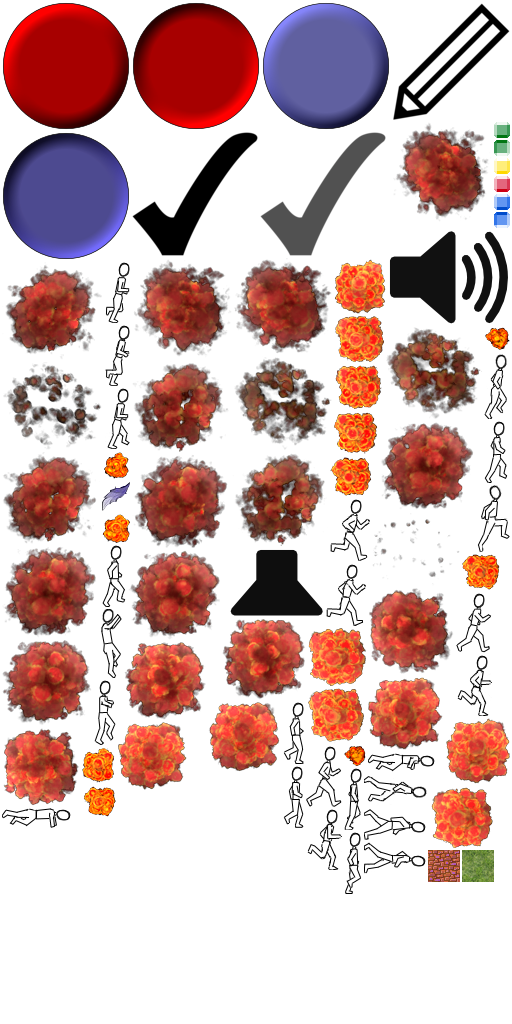
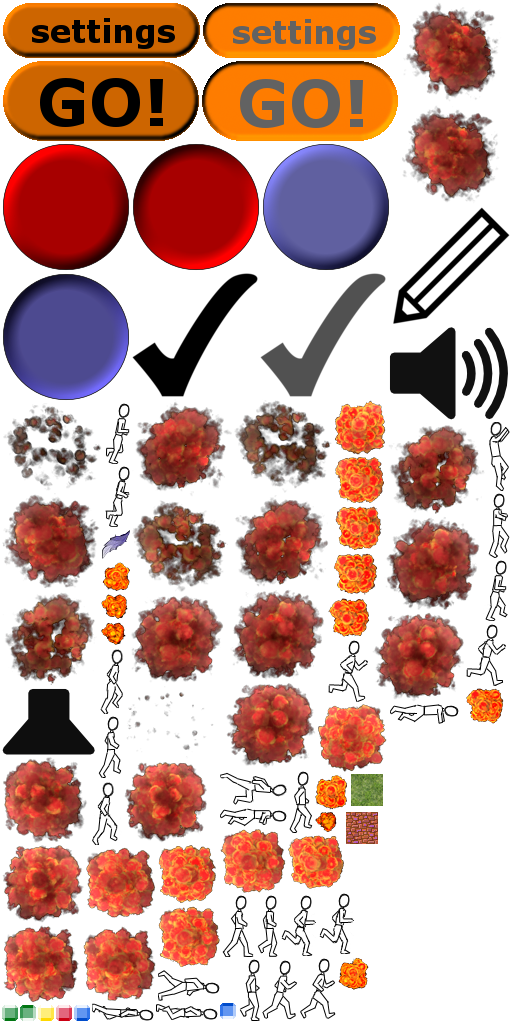
better screen flow

diff --git a/Wallter/Application/Layers/IntroLayer.m b/Wallter/Application/Layers/IntroLayer.m
@@ -3,9 +3,11 @@
 //  copyright Cyrus Innovation 2012
 //
 
+#import <CoreGraphics/CoreGraphics.h>
 #import "IntroLayer.h"
 #import "RunningLayer.h"
 #import "SettingsLayer.h"
+#import "SimpleButton.h"
 
 #pragma mark - IntroLayer
 
@@ -26,10 +28,26 @@
 	background.scale = size.height / background.contentSize.height;
 	background.anchorPoint = cgp(0, 0);
 
+	int padding = 15;
+
+	SimpleButton *goButton = [[SimpleButton alloc] init:@"go.up.png" downFrame:@"go.down.png"];
+	[goButton setReleaseCallbackTarget:self selector:@selector(playGame)];
+	[goButton setPosition:cgp(size.width - padding - goButton.contentSize.width, padding)];
+	[self addChild:goButton z:10];
+
+	SimpleButton *settingsButton = [[SimpleButton alloc] init:@"settings.up.png" downFrame:@"settings.down.png"];
+	[settingsButton setReleaseCallbackTarget:self selector:@selector(goToSettings)];
+	[settingsButton setPosition:cgp(padding, size.height - padding - settingsButton.contentSize.height)];
+	[self addChild:settingsButton z:10];
+
 	[self addChild:background];
 }
 
-- (void)makeTransition:(ccTime)dt {
+- (void)playGame {
+	[[CCDirector sharedDirector] replaceScene:[CCTransitionFade transitionWithDuration:1.0 scene:[RunningLayer scene] withColor:ccWHITE]];
+}
+
+- (void)goToSettings {
 	[[CCDirector sharedDirector] replaceScene:[CCTransitionFade transitionWithDuration:1.0 scene:[SettingsLayer scene] withColor:ccWHITE]];
 }
 

diff --git a/Wallter/Application/Layers/SettingsLayer.m b/Wallter/Application/Layers/SettingsLayer.m
@@ -1,9 +1,8 @@
 #import "SettingsLayer.h"
 #import "CGPoint_ops.h"
-#import "HighScoresLayer.h"
 #import "Settings.h"
 #import "SimpleButton.h"
-#import "RunningLayer.h"
+#import "IntroLayer.h"
 
 @implementation SettingsLayer {
 	CCLabelBMFont *helloLabel;
@@ -25,7 +24,7 @@
 
 - (id)init {
 	CGSize s = [[CCDirector sharedDirector] winSize];
-	self = [super initWithColor:(ccColor4B) {100, 100, 220, 255} width:s.width height:s.height];
+	self = [super initWithColor:(ccColor4B) {247, 243, 231, 255} width:s.width height:s.height];
 	if (!self) return self;
 
 	self.isTouchEnabled = YES;
@@ -121,7 +120,7 @@
 }
 
 - (void)transitionToHighScores {
-	[[CCDirector sharedDirector] replaceScene:[CCTransitionFade transitionWithDuration:1.0 scene:[RunningLayer scene] withColor:ccBLACK]];
+	[[CCDirector sharedDirector] replaceScene:[CCTransitionFade transitionWithDuration:1.0 scene:[IntroLayer scene] withColor:ccBLACK]];
 }
 
 #pragma mark UITextFieldDelegate

diff --git a/Wallter/GameplayScene/RunningLayer.m b/Wallter/GameplayScene/RunningLayer.m
@@ -24,6 +24,7 @@
 #import "WalterWeapon.h"
 #import "WalterStuckednessTicker.h"
 #import "WalterDeathFallTicker.h"
+#import "IntroLayer.h"
 
 @implementation RunningLayer {
 	Stage *stage;
@@ -164,14 +165,7 @@
 
 	[audio stopBackgroundMusic];
 
-	// TODO lolwut?
-	CCScene *scene;
-	if ([HighScores isHighScore:score]) {
-		scene = [HighScoresLayer scene];
-	} else {
-		scene = [HighScoresLayer scene];
-	}
-	[[CCDirector sharedDirector] replaceScene:[CCTransitionFade transitionWithDuration:1.0 scene:scene withColor:ccBLACK]];
+	[[CCDirector sharedDirector] replaceScene:[CCTransitionFade transitionWithDuration:1.0 scene:[IntroLayer scene] withColor:ccBLACK]];
 }
 
 #pragma mark SimulationObserver
